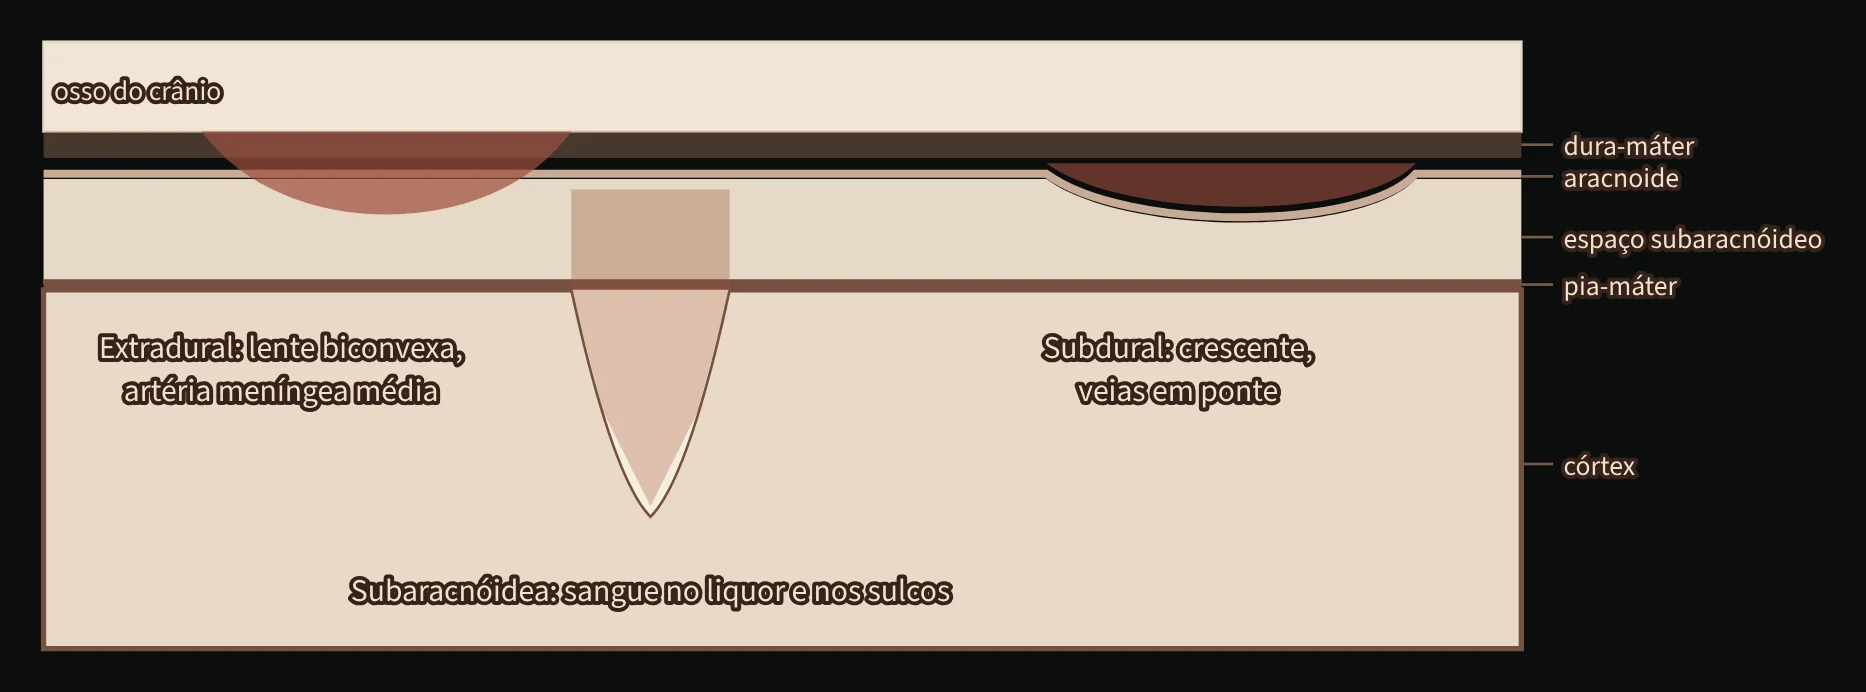
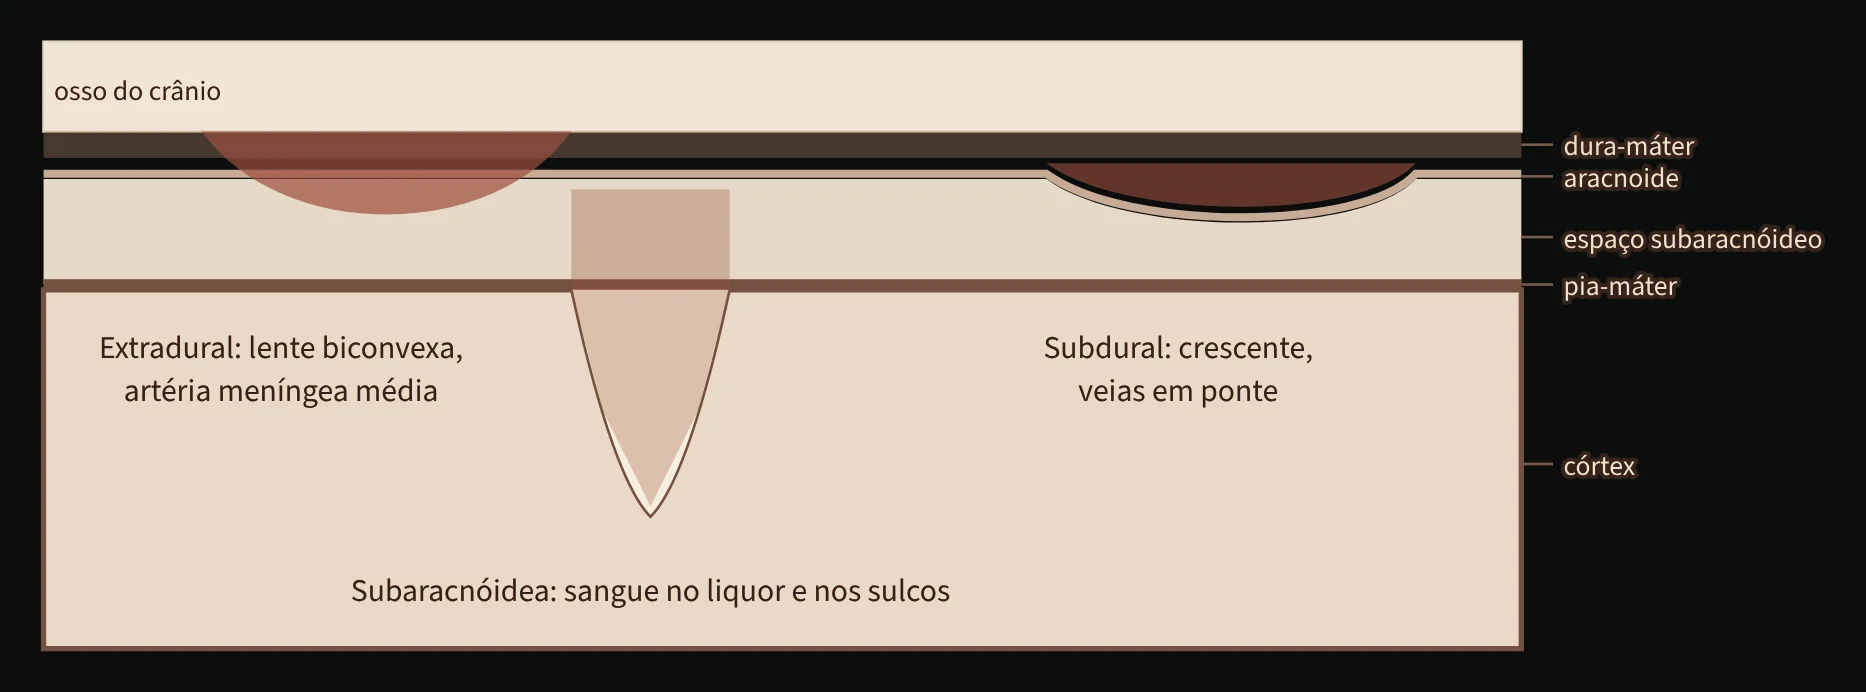
3.12.0: evolução, desenvolvimento e tecido nervoso no padrão novo
Claude-Session: https://claude.ai/code/session_01DejnQU8mscHVK6PAauKzDL

diff --git a/neuro/sw.js b/neuro/sw.js
@@ -1,5 +1,5 @@
 /* Up-MED study — rede primeiro: sempre a versão mais nova; cópia salva só sem internet. */
-var CACHE='upmed-neuro-v3-11-0';
+var CACHE='upmed-neuro-v3-12-0';
 var CORE=['./','./index.html','./icon.svg','./icon-192.png','./manifest.webmanifest'];
 self.addEventListener('install',function(e){self.skipWaiting();e.waitUntil(caches.open(CACHE).then(function(c){return c.addAll(CORE)}).catch(function(){}))});
 self.addEventListener('activate',function(e){e.waitUntil(caches.keys().then(function(ks){return Promise.all(ks.filter(function(k){return k!==CACHE}).map(function(k){return caches.delete(k)}))}).then(function(){return self.clients.claim()}))});
